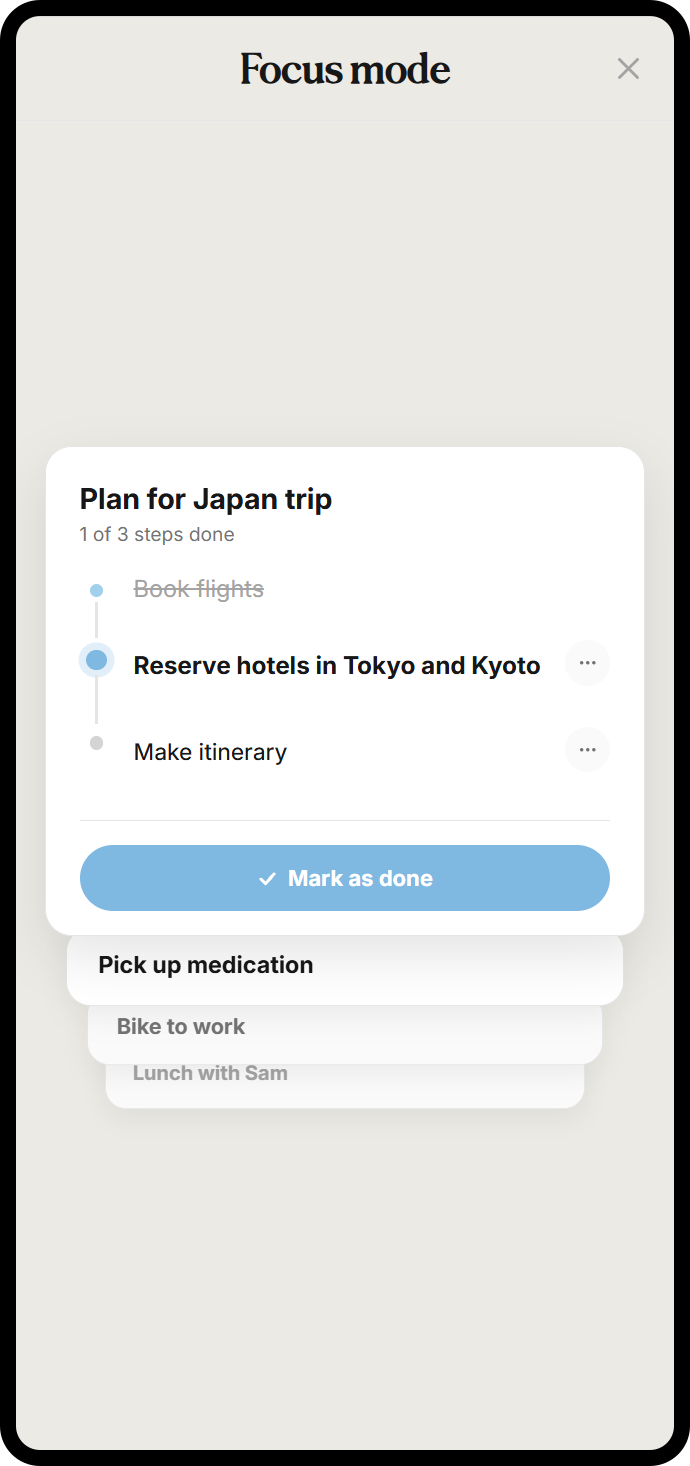
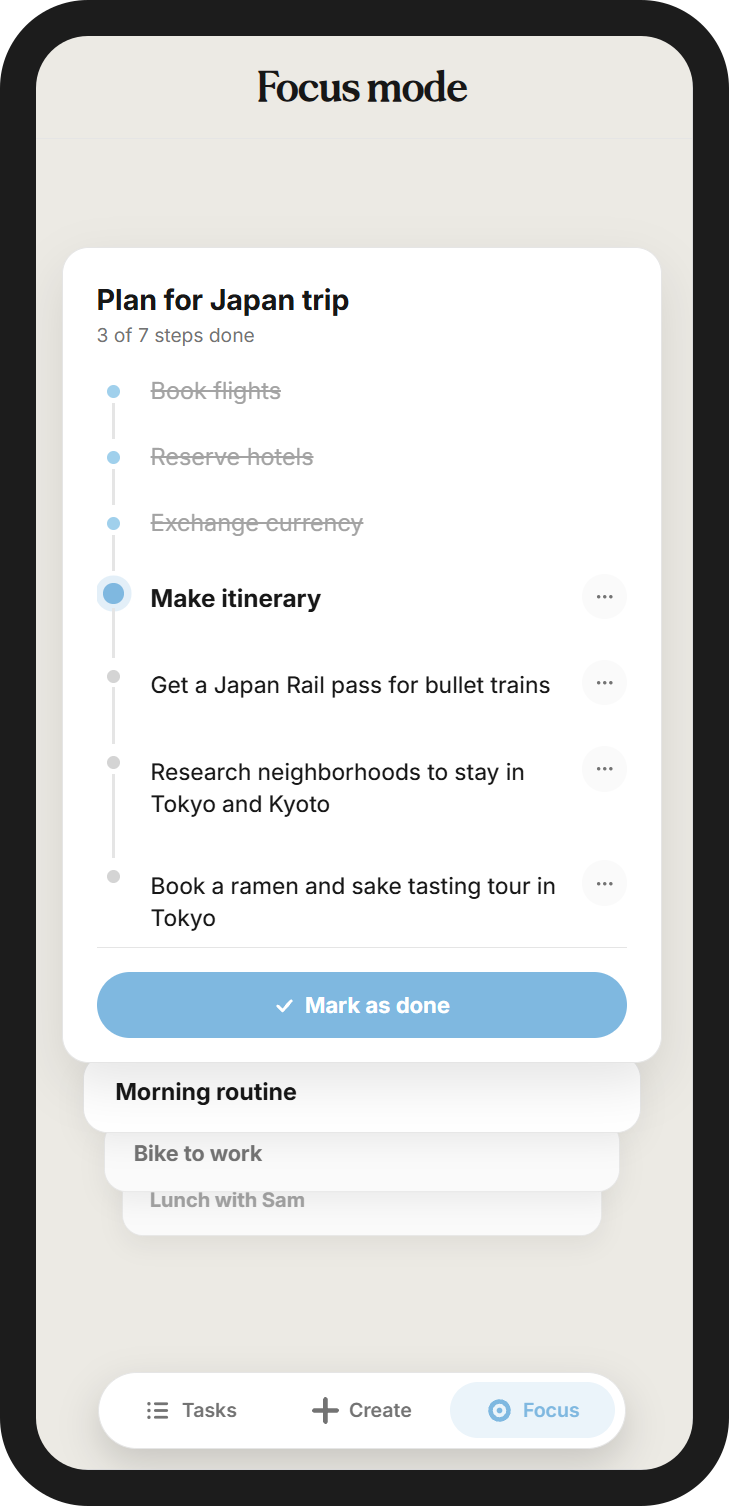
[chore] Update README

diff --git a/README.md b/README.md
@@ -42,9 +42,10 @@ instead of a wall of to-dos.
 - `src/lib/anthropic.ts` — Claude API call for task breakdown
 - `src/app/api/**` — REST-ish route handlers (projects, tasks, reorder, breakdown)
 - `src/app/tasks/new/page.tsx` — the full-screen create-task route
+- `src/app/tasks/[taskId]/edit/page.tsx` — the full-screen edit-task route
 - `src/app/focus/page.tsx` — the full-screen focus-mode route
 - `src/components/TaskApp.tsx` — client-side state + orchestration
 - `src/components/TaskRow.tsx` — recursive task tree row
-- `src/components/NextActionCard.tsx` — the "Next Action" surface
-- `src/components/CreateTaskPage.tsx` — task creation, with subtasks and optional scheduling
+- `src/components/BottomNav.tsx` — the floating Tasks/Create/Focus tab bar
+- `src/components/CreateTaskPage.tsx` — task creation and editing, with subtasks and optional scheduling
 - `src/components/FocusMode.tsx` — one task, one step at a time
